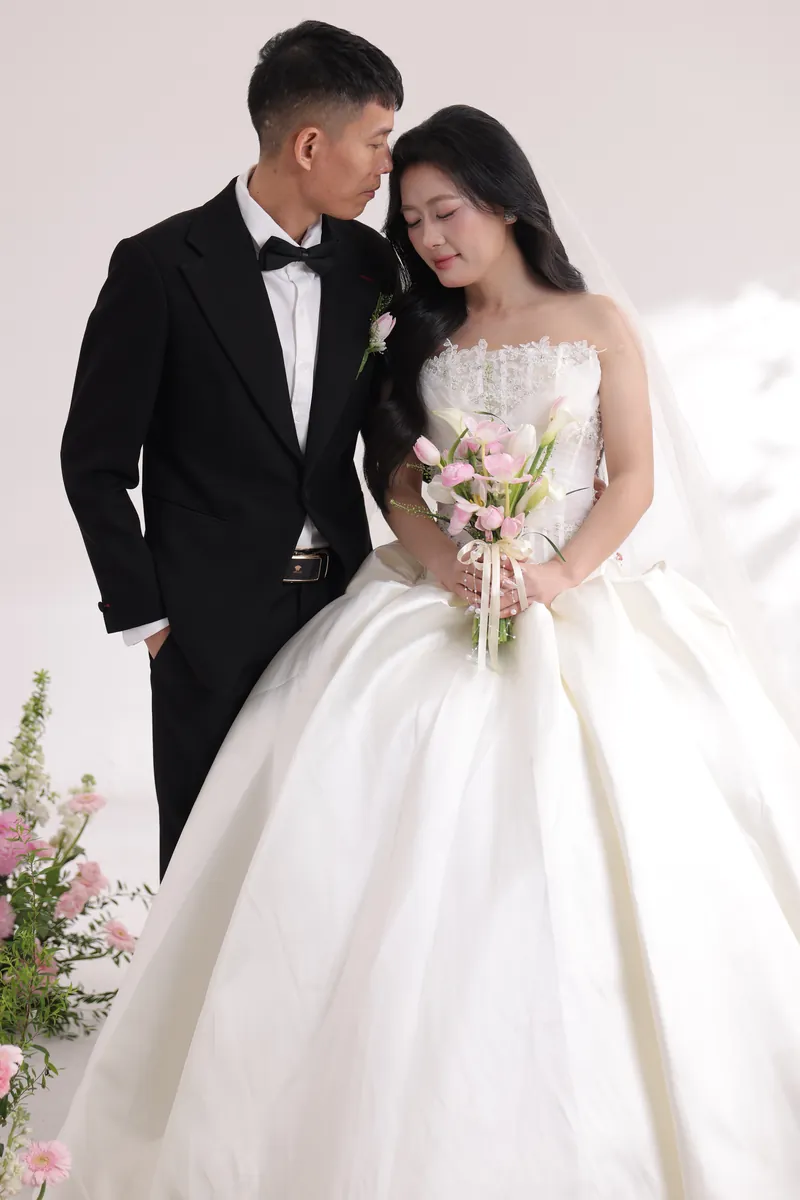
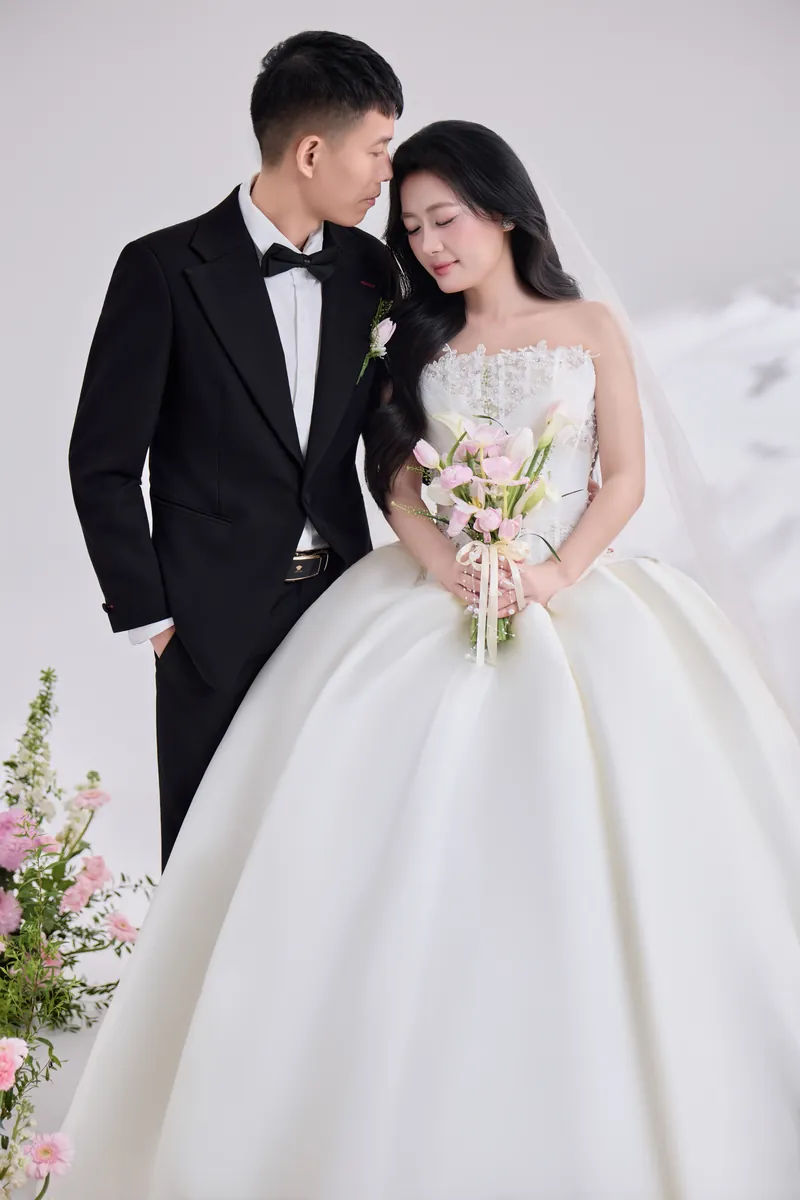
Thay ảnh đã chỉnh sửa: ảnh bìa, lời ngỏ, cô dâu, sự kiện, chuyện tình yêu, ảnh chia sẻ

diff --git a/assets/js/config.js b/assets/js/config.js
@@ -37,7 +37,7 @@ window.WEDDING = {
 
   /* ---------- Ảnh bìa ---------- */
   hero: {
-    photo: { src: "assets/images/cuoi/anh-bia.webp", w: 1201, h: 1800, srcset: "assets/images/cuoi/anh-bia-800.webp 800w, assets/images/cuoi/anh-bia.webp 1201w", sizes: "(max-width: 575px) calc(100vw - 32px), 543px" },
+    photo: { src: "assets/images/cuoi/anh-bia.webp", w: 1200, h: 1800, srcset: "assets/images/cuoi/anh-bia-800.webp 800w, assets/images/cuoi/anh-bia.webp 1200w", sizes: "(max-width: 575px) calc(100vw - 32px), 543px" },
     before: "Chúng tôi",
     after: "Sắp kết hôn.",
     script: "Wedding"                   // chữ bay bướm đè lên chân ảnh bìa
@@ -110,13 +110,13 @@ window.WEDDING = {
         date: "Tháng 8, 2019",
         title: "Buổi hẹn đầu tiên",
         text: "Quán cà phê nhỏ đầu ngõ, ly nâu đá tan gần hết mà chuyện vẫn chưa dứt. Hôm ấy anh đưa em về dưới trời đầy sao, và cả hai đều biết đây sẽ không phải lần cuối.",
-        photo: { src: "assets/images/cuoi/chuyen-2.webp", focus: "50% 12%" }
+        photo: { src: "assets/images/cuoi/chuyen-2.webp", focus: "50% 15%" }
       },
       {
         date: "Tháng 2, 2025",
         title: "Lời cầu hôn",
         text: "Trên bãi biển lúc bình minh, anh quỳ xuống với chiếc nhẫn đã giấu trong túi áo suốt cả chuyến đi. Em đã khóc, đã cười, và đã nói “Đồng ý”.",
-        photo: { src: "assets/images/cuoi/chuyen-3.webp", focus: "50% 8%" }
+        photo: { src: "assets/images/cuoi/chuyen-3.webp", focus: "50% 10%" }
       },
       {
         date: "Tháng 10, 2026",
@@ -131,7 +131,7 @@ window.WEDDING = {
   letter: {
     title: "Lời Ngỏ",
     text: "Trân trọng kính mời quý vị\ntới dự bữa cơm thân mật,\nchung vui cùng gia đình chúng tôi.\nSự hiện diện của quý vị\nlà niềm vinh hạnh cho gia đình chúng tôi!\nRất hân hạnh được đón tiếp!",
-    photo: { src: "assets/images/cuoi/loi-ngo.webp", focus: "50% 30%" }
+    photo: { src: "assets/images/cuoi/loi-ngo.webp", focus: "50% 35%" }
   },
 
   /* ---------- Sự kiện cưới ----------
@@ -151,7 +151,7 @@ window.WEDDING = {
         address: "Xóm Bến Mới, Tân Phong, Ý Yên, Ninh Bình",
         map: "https://www.google.com/maps/search/?api=1&query=20.3179359,105.9642715",
         lunar: "Tức ngày 10 tháng 09 năm Bính Ngọ",
-        photo: { src: "assets/images/cuoi/tiec-nha-gai.webp", focus: "40% 50%" },
+        photo: { src: "assets/images/cuoi/tiec-nha-gai.webp", focus: "46% 20%" },
         dressCode: []
       },
       {
@@ -162,7 +162,7 @@ window.WEDDING = {
         address: "Xóm Bến Mới, Tân Phong, Ý Yên, Ninh Bình",
         map: "https://www.google.com/maps/search/?api=1&query=20.3179359,105.9642715",
         lunar: "Tức ngày 11 tháng 09 năm Bính Ngọ",
-        photo: { src: "assets/images/cuoi/le-cuoi-nha-gai.webp", focus: "45% 50%" },
+        photo: { src: "assets/images/cuoi/le-cuoi-nha-gai.webp", focus: "48% 10%" },
         dressCode: []
       },
       {
@@ -173,7 +173,7 @@ window.WEDDING = {
         address: "131 La Xuyên, Vũ Dương, Ninh Bình",
         map: "https://www.google.com/maps/search/?api=1&query=20.308177947998047,106.04753875732422",
         lunar: "Tức ngày 11 tháng 09 năm Bính Ngọ",
-        photo: { src: "assets/images/cuoi/le-thanh-hon.webp", focus: "42% 50%" },
+        photo: { src: "assets/images/cuoi/le-thanh-hon.webp", focus: "55% 20%" },
         dressCode: []
       },
       {
@@ -184,7 +184,7 @@ window.WEDDING = {
         address: "131 La Xuyên, Vũ Dương, Ninh Bình",
         map: "https://www.google.com/maps/search/?api=1&query=20.308177947998047,106.04753875732422",
         lunar: "Tức ngày 11 tháng 09 năm Bính Ngọ",
-        photo: { src: "assets/images/cuoi/tiec-nha-trai.webp", focus: "48% 50%" },
+        photo: { src: "assets/images/cuoi/tiec-nha-trai.webp", focus: "45% 13%" },
         dressCode: []
       }
     ]
